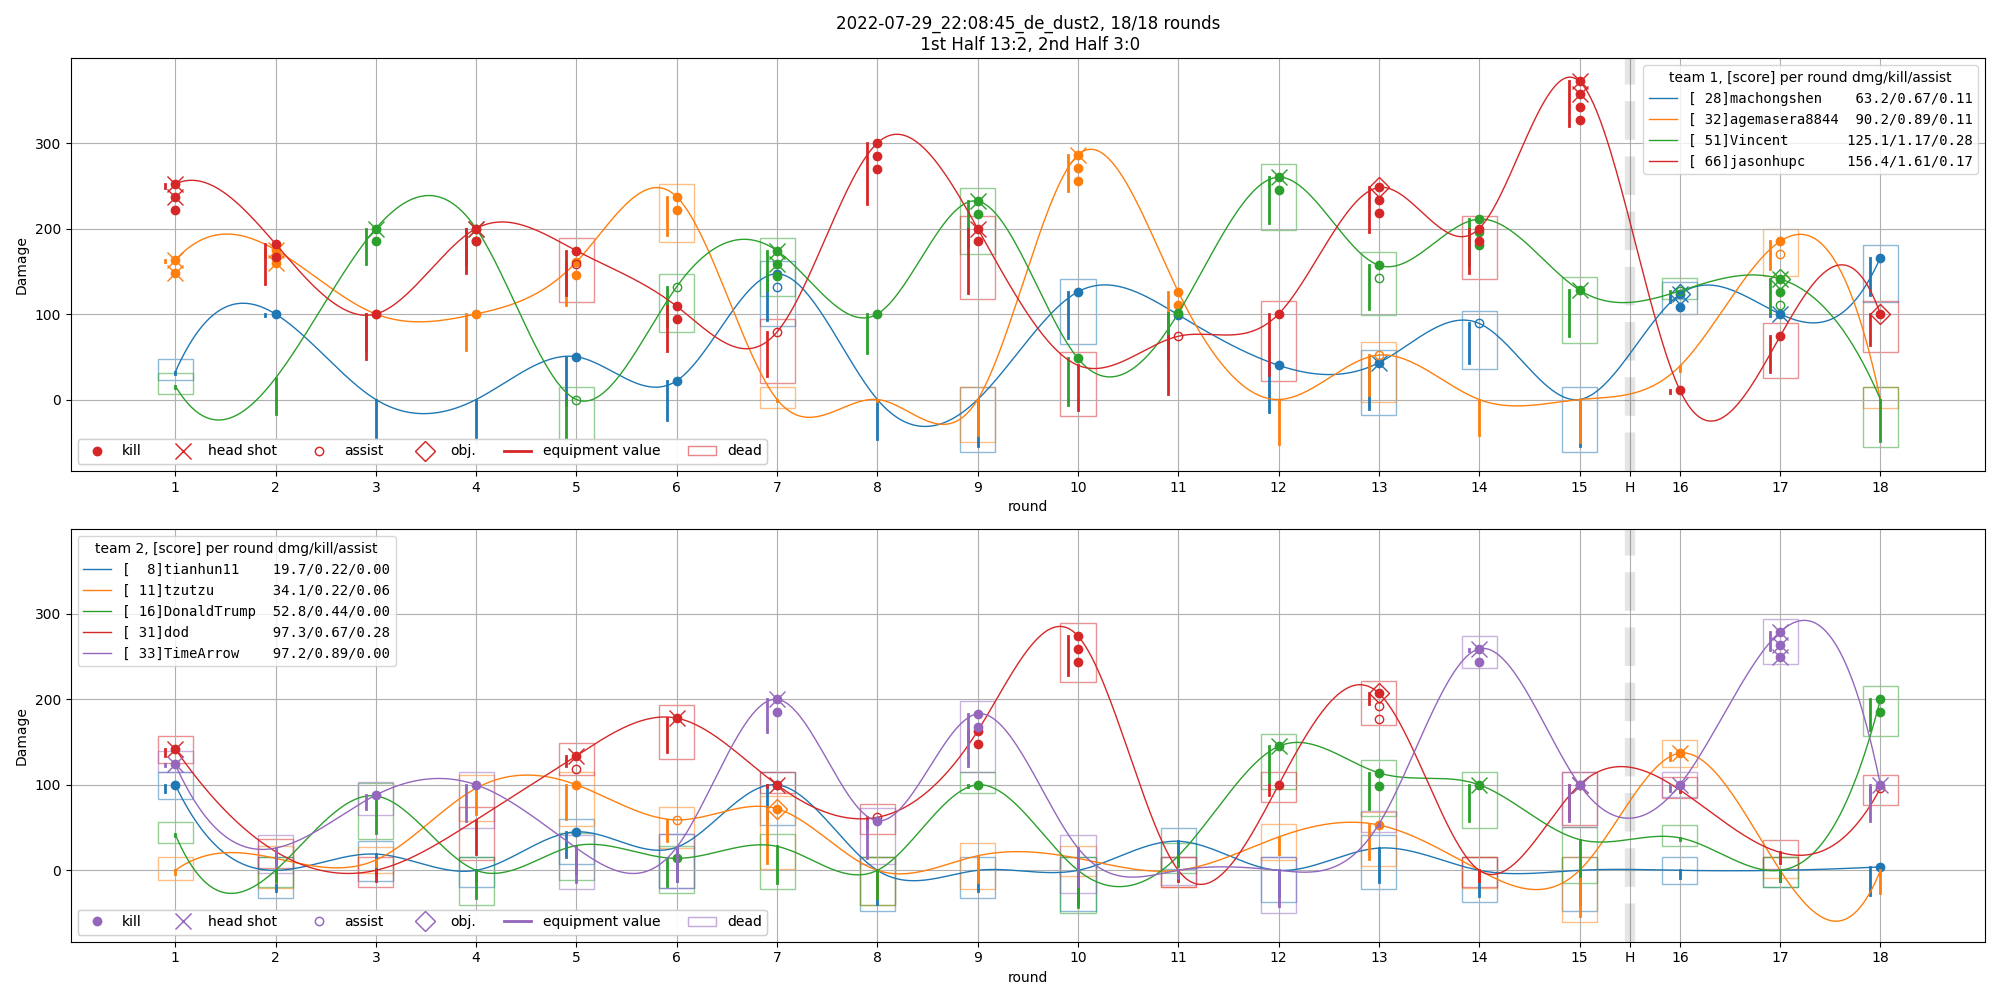
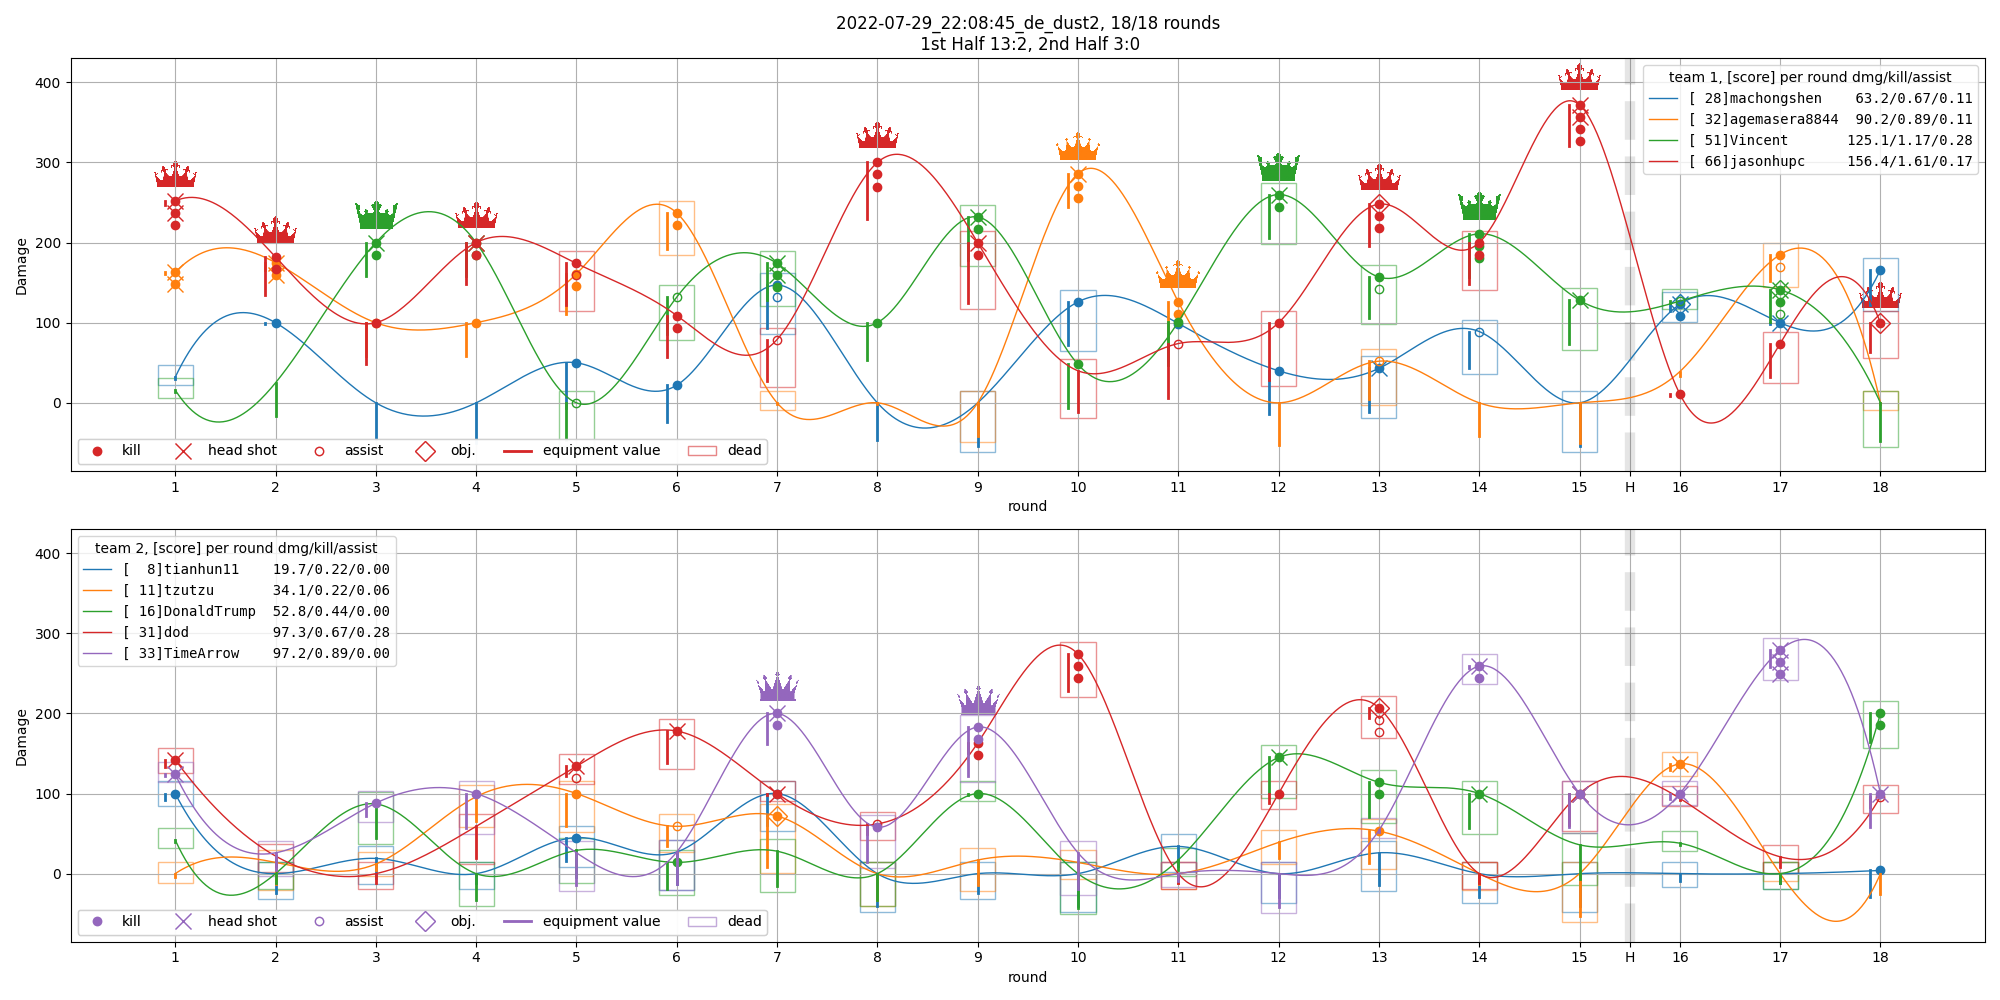
crowns and flows

diff --git a/2022-07-29_Night.md b/2022-07-29_Night.md
@@ -3,25 +3,31 @@ Last Game Night on 20220729
 More game stats in individual md files showed above in the git repo.
 # 20220729_204223_de_iris_round37_score_26_11
 ![alt text](pictures/2022-07-29_20:42:23_de_iris_rounds.png)
+![alt text](pictures/2022-07-29_20:42:23_de_iris_flow.png)
 ![alt text](pictures/2022-07-29_20:42:23_de_iris_totals.png)
 ![alt text](pictures/2022-07-29_20:42:23_de_iris_weapons.png)
 # 20220729_210219_cs_assault_round16_score_03_13
 ![alt text](pictures/2022-07-29_21:02:26_cs_assault_rounds.png)
+![alt text](pictures/2022-07-29_21:02:26_cs_assault_flow.png)
 ![alt text](pictures/2022-07-29_21:02:26_cs_assault_totals.png)
 ![alt text](pictures/2022-07-29_21:02:26_cs_assault_weapons.png)
 # 20220729_214417_cs_assault_round23_score_16_07
 ![alt text](pictures/2022-07-29_21:44:17_cs_assault_rounds.png)
+![alt text](pictures/2022-07-29_21:44:17_cs_assault_flow.png)
 ![alt text](pictures/2022-07-29_21:44:17_cs_assault_totals.png)
 ![alt text](pictures/2022-07-29_21:44:17_cs_assault_weapons.png)
 # 20220729_220845_de_dust2_round18_score_16_02
 ![alt text](pictures/2022-07-29_22:08:45_de_dust2_rounds.png)
+![alt text](pictures/2022-07-29_22:08:45_de_dust2_flow.png)
 ![alt text](pictures/2022-07-29_22:08:45_de_dust2_totals.png)
 ![alt text](pictures/2022-07-29_22:08:45_de_dust2_weapons.png)
 # 20220729_225010_cs_office_round29_score_13_16
 ![alt text](pictures/2022-07-29_22:50:10_cs_office_rounds.png)
+![alt text](pictures/2022-07-29_22:50:10_cs_office_flow.png)
 ![alt text](pictures/2022-07-29_22:50:10_cs_office_totals.png)
 ![alt text](pictures/2022-07-29_22:50:10_cs_office_weapons.png)
 # 20220729_231739_de_nuke_round22_score_16_06
 ![alt text](pictures/2022-07-29_23:17:39_de_nuke_rounds.png)
+![alt text](pictures/2022-07-29_23:17:39_de_nuke_flow.png)
 ![alt text](pictures/2022-07-29_23:17:39_de_nuke_totals.png)
 ![alt text](pictures/2022-07-29_23:17:39_de_nuke_weapons.png)

diff --git a/README.md b/README.md
@@ -3,25 +3,31 @@ Last Game Night on 20220729
 More game stats in individual md files showed above in the git repo.
 # 20220729_204223_de_iris_round37_score_26_11
 ![alt text](pictures/2022-07-29_20:42:23_de_iris_rounds.png)
+![alt text](pictures/2022-07-29_20:42:23_de_iris_flow.png)
 ![alt text](pictures/2022-07-29_20:42:23_de_iris_totals.png)
 ![alt text](pictures/2022-07-29_20:42:23_de_iris_weapons.png)
 # 20220729_210219_cs_assault_round16_score_03_13
 ![alt text](pictures/2022-07-29_21:02:26_cs_assault_rounds.png)
+![alt text](pictures/2022-07-29_21:02:26_cs_assault_flow.png)
 ![alt text](pictures/2022-07-29_21:02:26_cs_assault_totals.png)
 ![alt text](pictures/2022-07-29_21:02:26_cs_assault_weapons.png)
 # 20220729_214417_cs_assault_round23_score_16_07
 ![alt text](pictures/2022-07-29_21:44:17_cs_assault_rounds.png)
+![alt text](pictures/2022-07-29_21:44:17_cs_assault_flow.png)
 ![alt text](pictures/2022-07-29_21:44:17_cs_assault_totals.png)
 ![alt text](pictures/2022-07-29_21:44:17_cs_assault_weapons.png)
 # 20220729_220845_de_dust2_round18_score_16_02
 ![alt text](pictures/2022-07-29_22:08:45_de_dust2_rounds.png)
+![alt text](pictures/2022-07-29_22:08:45_de_dust2_flow.png)
 ![alt text](pictures/2022-07-29_22:08:45_de_dust2_totals.png)
 ![alt text](pictures/2022-07-29_22:08:45_de_dust2_weapons.png)
 # 20220729_225010_cs_office_round29_score_13_16
 ![alt text](pictures/2022-07-29_22:50:10_cs_office_rounds.png)
+![alt text](pictures/2022-07-29_22:50:10_cs_office_flow.png)
 ![alt text](pictures/2022-07-29_22:50:10_cs_office_totals.png)
 ![alt text](pictures/2022-07-29_22:50:10_cs_office_weapons.png)
 # 20220729_231739_de_nuke_round22_score_16_06
 ![alt text](pictures/2022-07-29_23:17:39_de_nuke_rounds.png)
+![alt text](pictures/2022-07-29_23:17:39_de_nuke_flow.png)
 ![alt text](pictures/2022-07-29_23:17:39_de_nuke_totals.png)
 ![alt text](pictures/2022-07-29_23:17:39_de_nuke_weapons.png)

diff --git a/2022-07-29_21:02:26_cs_assault.md b/2022-07-29_21:02:26_cs_assault.md
@@ -1,3 +1,4 @@
 ![alt text](pictures/2022-07-29_21:02:26_cs_assault_rounds.png)
+![alt text](pictures/2022-07-29_21:02:26_cs_assault_flow.png)
 ![alt text](pictures/2022-07-29_21:02:26_cs_assault_totals.png)
 ![alt text](pictures/2022-07-29_21:02:26_cs_assault_weapons.png)

diff --git a/2022-07-29_21:44:17_cs_assault.md b/2022-07-29_21:44:17_cs_assault.md
@@ -1,3 +1,4 @@
 ![alt text](pictures/2022-07-29_21:44:17_cs_assault_rounds.png)
+![alt text](pictures/2022-07-29_21:44:17_cs_assault_flow.png)
 ![alt text](pictures/2022-07-29_21:44:17_cs_assault_totals.png)
 ![alt text](pictures/2022-07-29_21:44:17_cs_assault_weapons.png)

diff --git a/2022-07-29_22:50:10_cs_office.md b/2022-07-29_22:50:10_cs_office.md
@@ -1,3 +1,4 @@
 ![alt text](pictures/2022-07-29_22:50:10_cs_office_rounds.png)
+![alt text](pictures/2022-07-29_22:50:10_cs_office_flow.png)
 ![alt text](pictures/2022-07-29_22:50:10_cs_office_totals.png)
 ![alt text](pictures/2022-07-29_22:50:10_cs_office_weapons.png)

diff --git a/2022-07-29_22:08:45_de_dust2.md b/2022-07-29_22:08:45_de_dust2.md
@@ -1,3 +1,4 @@
 ![alt text](pictures/2022-07-29_22:08:45_de_dust2_rounds.png)
+![alt text](pictures/2022-07-29_22:08:45_de_dust2_flow.png)
 ![alt text](pictures/2022-07-29_22:08:45_de_dust2_totals.png)
 ![alt text](pictures/2022-07-29_22:08:45_de_dust2_weapons.png)

diff --git a/2022-07-29_20:42:23_de_iris.md b/2022-07-29_20:42:23_de_iris.md
@@ -1,3 +1,4 @@
 ![alt text](pictures/2022-07-29_20:42:23_de_iris_rounds.png)
+![alt text](pictures/2022-07-29_20:42:23_de_iris_flow.png)
 ![alt text](pictures/2022-07-29_20:42:23_de_iris_totals.png)
 ![alt text](pictures/2022-07-29_20:42:23_de_iris_weapons.png)

diff --git a/2022-07-29_23:17:39_de_nuke.md b/2022-07-29_23:17:39_de_nuke.md
@@ -1,3 +1,4 @@
 ![alt text](pictures/2022-07-29_23:17:39_de_nuke_rounds.png)
+![alt text](pictures/2022-07-29_23:17:39_de_nuke_flow.png)
 ![alt text](pictures/2022-07-29_23:17:39_de_nuke_totals.png)
 ![alt text](pictures/2022-07-29_23:17:39_de_nuke_weapons.png)
